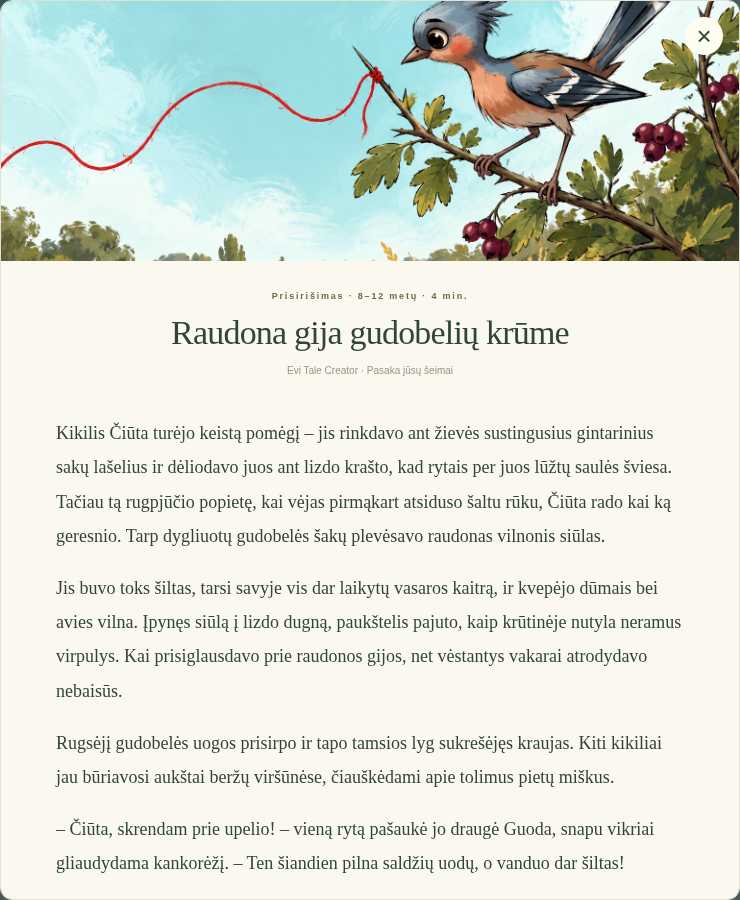
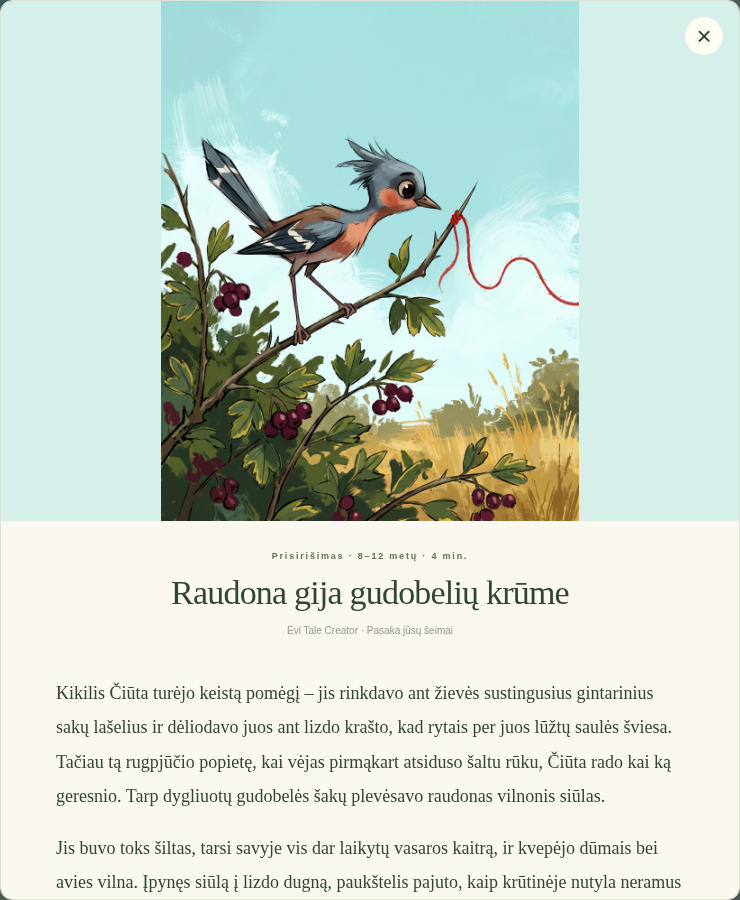
Version story requests to avoid stale content and use uploaded illustration

diff --git a/src.js b/src.js
@@ -33,7 +33,7 @@ const dialog=document.querySelector('#reader');dialog.addEventListener('click',e
 function openStory(id){const s=stories.find(s=>s.id===id);document.querySelector('#reader-content').innerHTML=`<button class="close" id="close-reader" aria-label="Uždaryti pasaką">×</button><div class="reader-heading">${cover(s)}<span class="eyebrow">${esc(s.topic)} · 8–12 metų · ${s.time} min.</span><h2>${esc(s.title)}</h2><p class="demo-label">${s.sample ? 'Pavyzdinė pasaka · Evi Tale Creator prototipas' : 'Evi Tale Creator · Pasaka jūsų šeimai'}</p></div><div class="story-text">${s.body.map(p=>`<p>${esc(p)}</p>`).join('')}<div class="story-end">✧</div>${s.note?`<details><summary>Suaugusiesiems: tarp pasakos eilučių</summary><p>${esc(s.note)}</p><p>Galite paklausti: „Kuri istorijos vieta tau įsiminė?“ Atsakymo skubinti nereikia.</p></details>`:''}<p class="audio-note">♬ Įgarsinimas planuojamas. Šiuo metu pasaką galima skaityti.</p></div>`;dialog.showModal();dialog.scrollTop=0;}
 async function loadStories() {
  try {
-  const response=await fetch(editorMode?'/api/stories':asset('stories.json'));
+  const response=await fetch(editorMode?'/api/stories':asset(`stories.json?v=${__CONTENT_VERSION__}`),{cache:'no-store'});
   if(!response.ok) throw new Error('Nepavyko įkelti pasakų');
   stories=await response.json(); render();
   const topics=['Visos pasakos',...new Set(stories.map(s=>s.topic))];

diff --git a/style.css b/style.css
@@ -14,3 +14,6 @@ header{border-bottom-color:#d9dfd2}.brand-icon{color:#617343}.tiny-dot{backgroun
 /* Uploaded story illustrations are shared by the public shelf and reader. */
 .story-cover{display:block;width:100%;height:278px;object-fit:cover}.cover-button:has(.story-cover) .cover-title{display:none}.reader-heading>.story-cover{height:260px}.story-text>p,.story-text details p{white-space:pre-line}
 @media(min-width:1450px){.story-cover{height:305px}}@media(max-width:1000px){.story-cover{height:250px}}@media(max-width:720px){.story-cover{height:325px}.reader-heading>.story-cover{height:200px}}
+
+/* Keep the full uploaded illustration visible when reading a story. */
+.cover-button .story-cover{object-position:center 42%}.reader-heading>.story-cover{height:auto;max-height:520px;object-fit:contain;background:#d5efeb}

diff --git a/vite.config.js b/vite.config.js
@@ -1,6 +1,9 @@
 import { defineConfig } from 'vite';
 import { resolve } from 'node:path';
+import {readFileSync} from 'node:fs';
+import {createHash} from 'node:crypto';
 export default defineConfig(({mode})=>({
+ define:{__CONTENT_VERSION__:JSON.stringify(mode==='editor'?'server':createHash('sha256').update(readFileSync('public/stories.json')).digest('hex').slice(0,16))},
  base:mode==='editor'?'/':process.env.PAGES_BASE_PATH||'/EviTaleApp/',
  server: {proxy: {'/api': 'http://127.0.0.1:3001', '/uploads': 'http://127.0.0.1:3001'}},
  build: {rollupOptions: {input: mode==='editor'?{main:resolve('index.html'),admin:resolve('admin/index.html')}:{main:resolve('index.html')}}}

diff --git a/content/stories/raudona-gija-gudobeliu-krume.md b/content/stories/raudona-gija-gudobeliu-krume.md
@@ -5,7 +5,7 @@ topic: Prisirišimas
 status: published
 color: garden
 sample: false
-image: illustrations/red-thread-bird.png
+image: illustrations/raudona-gija.jpg
 imageAlt: Paukštelis ant gudobelės šakos greta raudono vilnonio siūlo.
 desc: Kikilis Čiūta randa raudoną vilnonį siūlą. Jam saugant savo lobį, gudobelių krūme keičiasi metų laikai.
 ---
